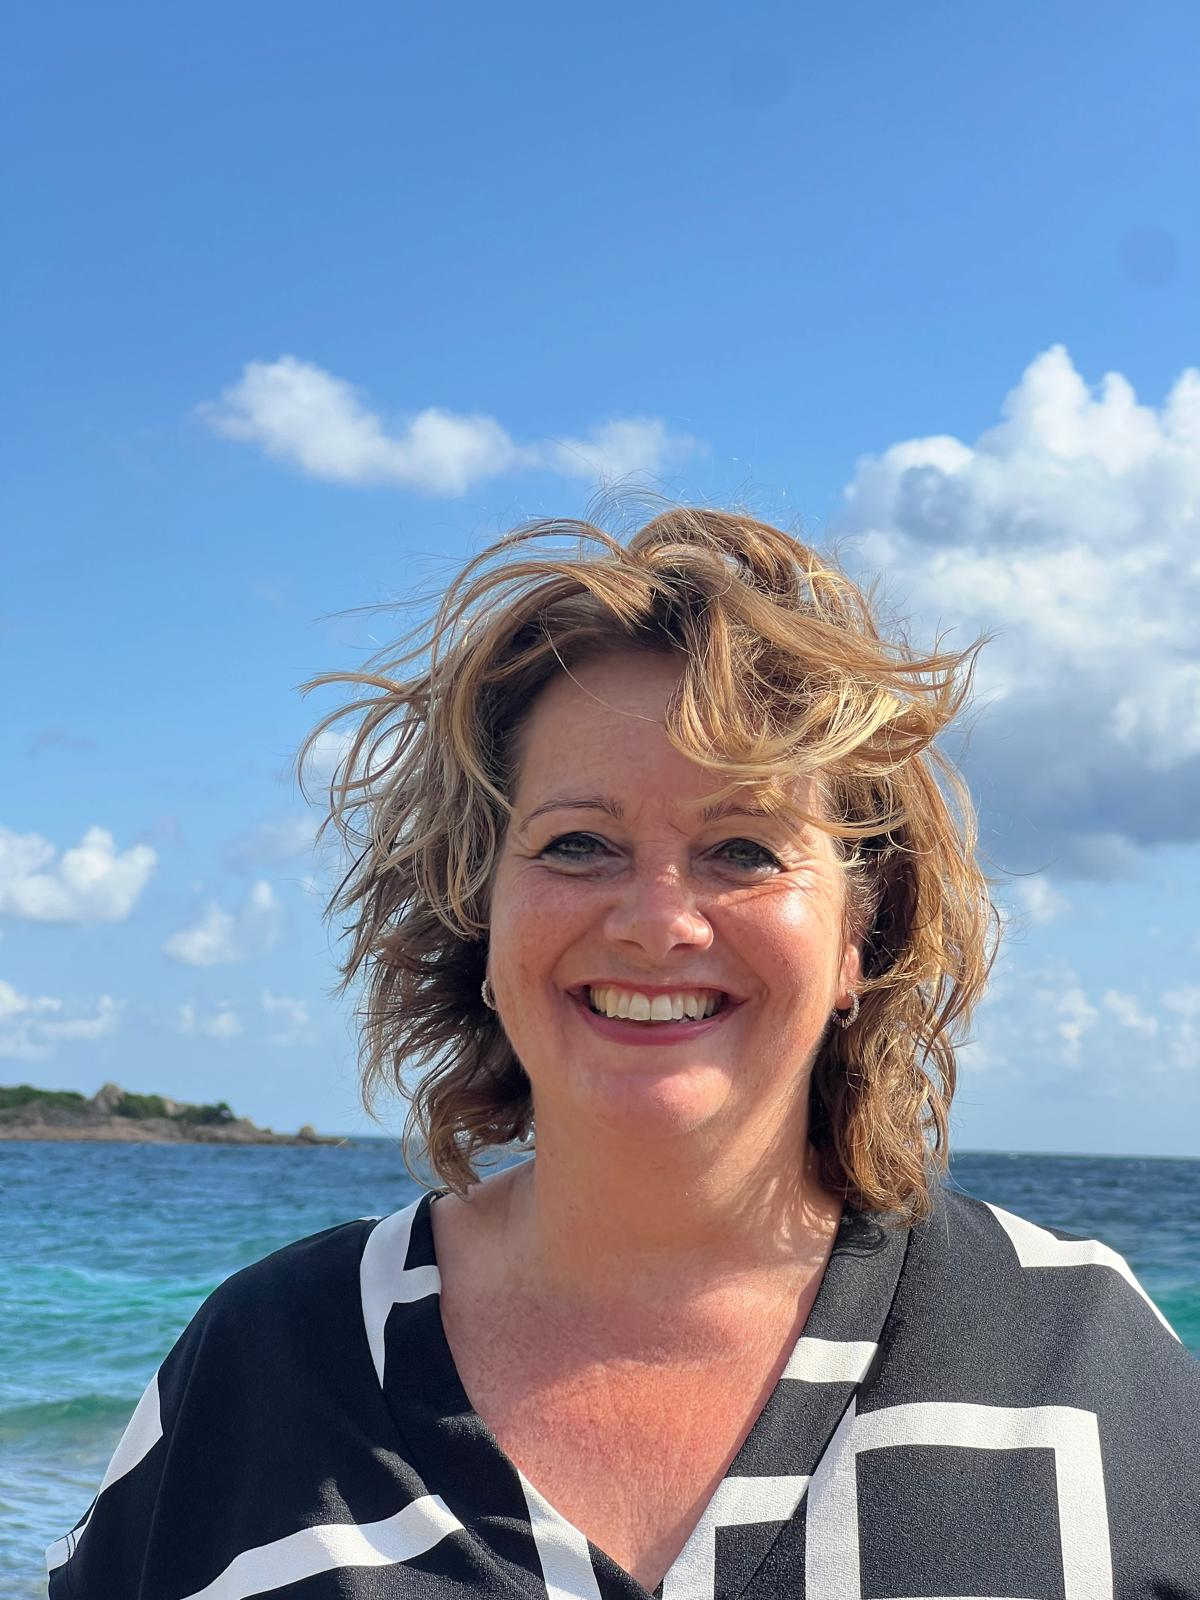
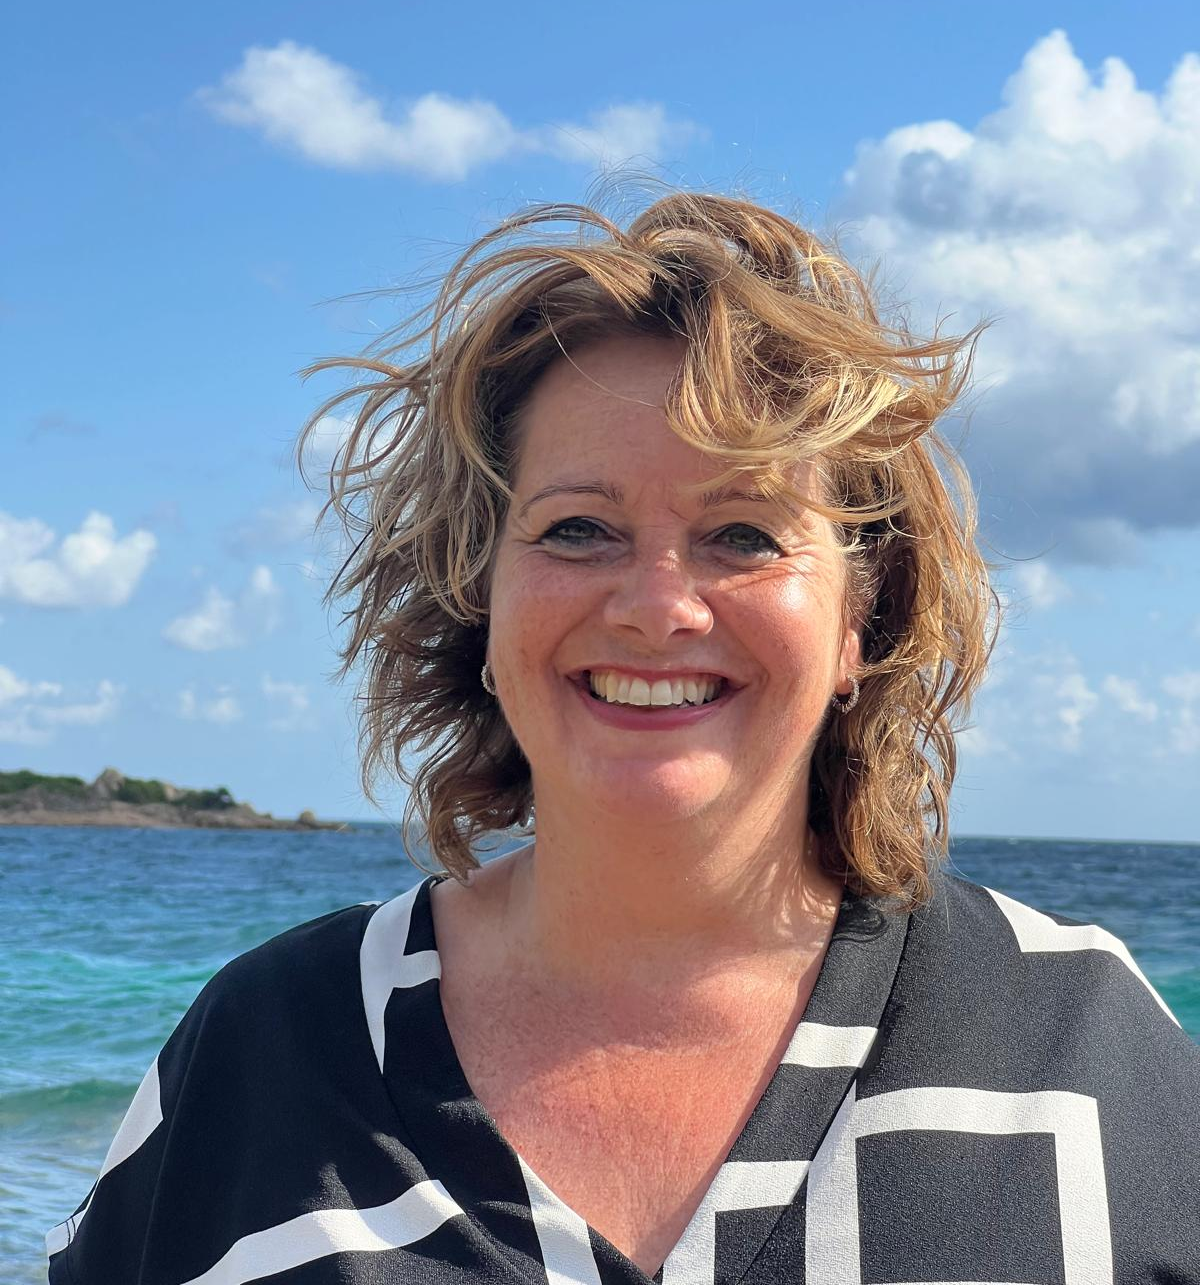
upate fotos

diff --git a/css/style.css b/css/style.css
@@ -379,13 +379,8 @@ select:focus-visible {
 
 .hero-images img {
   width: 100%;
-  height: clamp(220px, 34vw, 360px);
+  height: auto;
   border-radius: var(--radius);
-}
-
-.hero-image--portrait {
-  object-fit: contain;
-  background: var(--color-bg-alt);
 }
 
 /* --- Stappen ("hoe het werkt") -------------------------------------------
@@ -436,9 +431,12 @@ select:focus-visible {
   gap: 14px;
 }
 .teaser-visual img {
+  grid-column: 1 / -1;
+  width: 100%;
+  max-width: 360px;
+  height: auto;
+  justify-self: center;
   border-radius: var(--radius);
-  aspect-ratio: 4/3;
-  object-fit: fit;
 }
 
 /* --- Citaat / testimonial -------------------------------------------------*/
